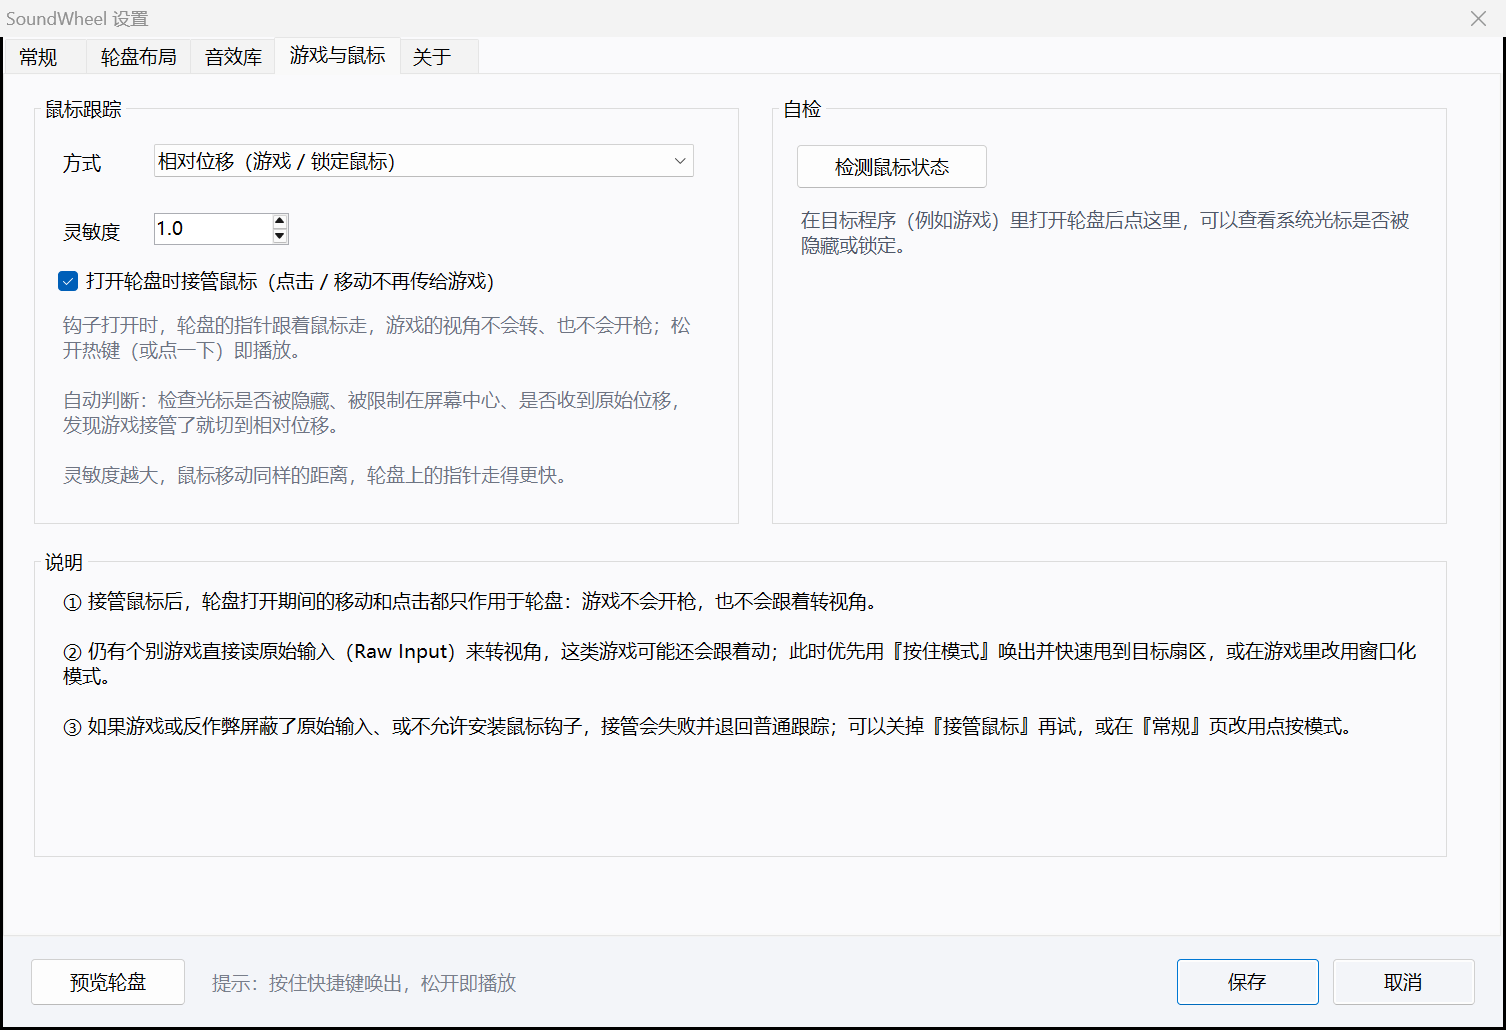
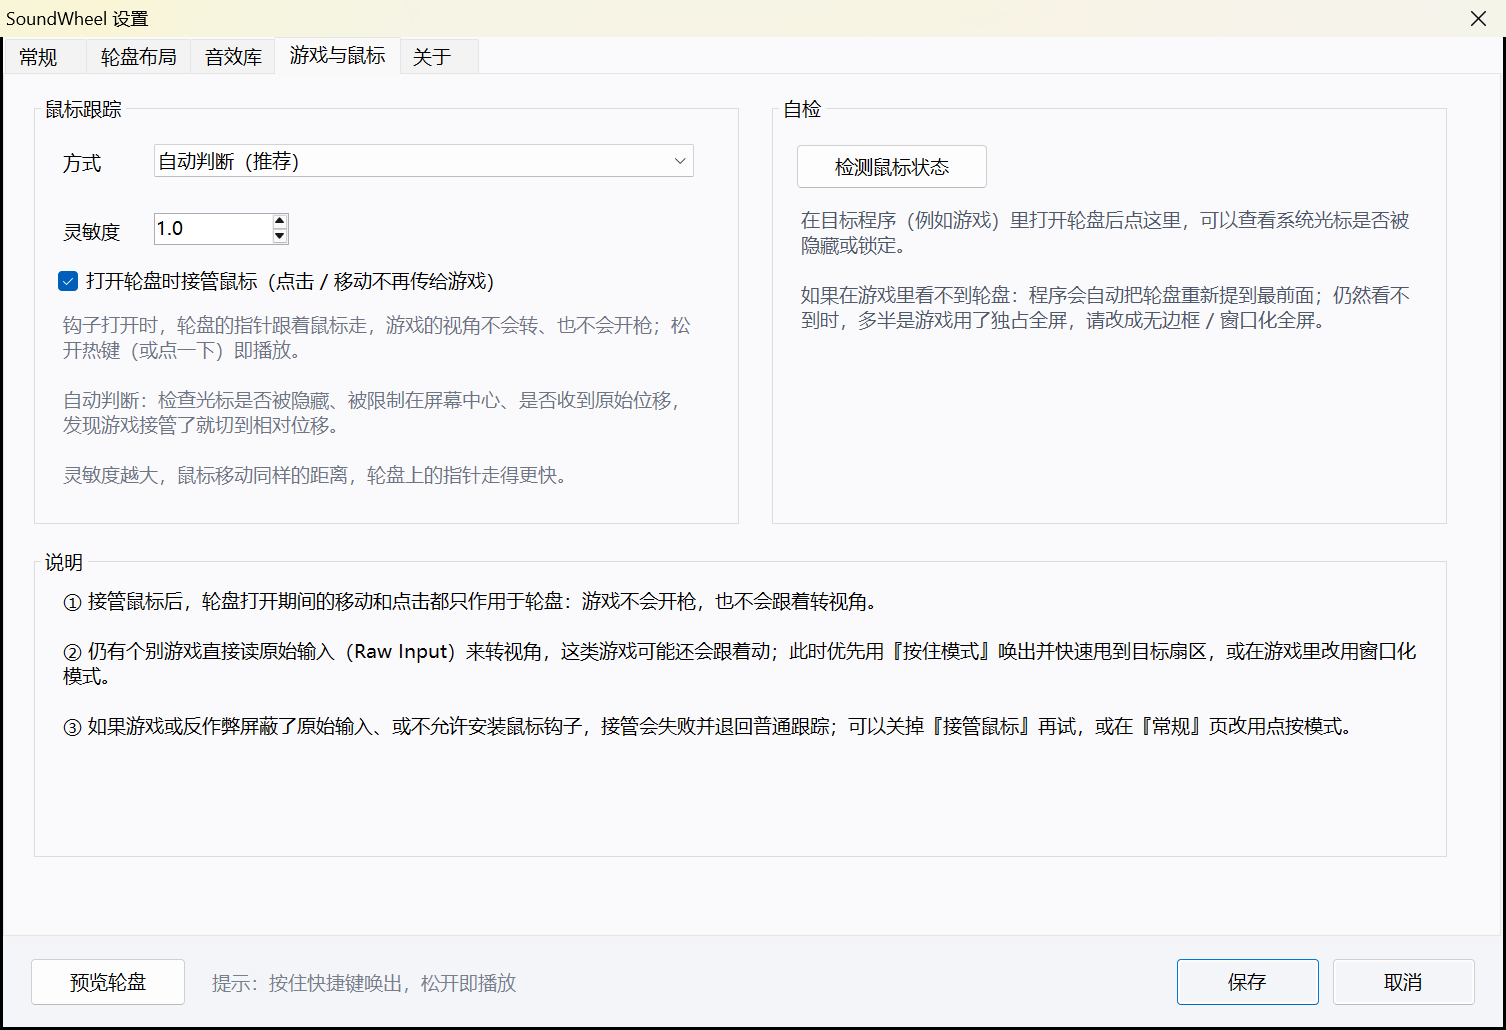
fix: 1.2.2 - keep the wheel above borderless fullscreen games

Changed region(s): [[0.5305, 0.2796, 0.9363, 0.3417], [0.0936, 0.1243, 0.2497, 0.1864], [0.0, 0.0, 0.1248, 0.0621]]

diff --git a/src/Native.cs b/src/Native.cs
@@ -30,6 +30,16 @@ namespace SoundWheel
         public const int ULW_ALPHA = 0x00000002;
         public const byte AC_SRC_ALPHA = 1;
 
+        // SetWindowPos：把窗口重新顶到 topmost 组最前面且不激活，用于盖住无边框全屏游戏
+        public static readonly IntPtr HWND_TOPMOST = new IntPtr(-1);
+        public const uint SWP_NOSIZE = 0x0001;
+        public const uint SWP_NOMOVE = 0x0002;
+        public const uint SWP_NOACTIVATE = 0x0010;
+        public const uint SWP_SHOWWINDOW = 0x0040;
+        public const uint SWP_NOOWNERZORDER = 0x0200;
+        public const uint MONITOR_DEFAULTTONEAREST = 2;
+        public const uint GW_HWNDPREV = 3;
+
         public const uint MOD_ALT = 0x0001;
         public const uint MOD_CONTROL = 0x0002;
         public const uint MOD_SHIFT = 0x0004;
@@ -61,6 +71,15 @@ namespace SoundWheel
             public int Bottom;
             public int Width { get { return Right - Left; } }
             public int Height { get { return Bottom - Top; } }
+        }
+
+        [StructLayout(LayoutKind.Sequential)]
+        public struct MONITORINFO
+        {
+            public int cbSize;
+            public RECT rcMonitor;
+            public RECT rcWork;
+            public uint dwFlags;
         }
 
         [StructLayout(LayoutKind.Sequential, Pack = 1)]
@@ -138,6 +157,30 @@ namespace SoundWheel
 
         [DllImport("user32.dll")]
         public static extern bool ShowWindow(IntPtr hWnd, int nCmdShow);
+
+        [DllImport("user32.dll", SetLastError = true)]
+        public static extern bool SetWindowPos(IntPtr hWnd, IntPtr hWndInsertAfter, int X, int Y, int cx, int cy, uint uFlags);
+
+        [DllImport("user32.dll")]
+        public static extern bool GetWindowRect(IntPtr hWnd, out RECT lpRect);
+
+        [DllImport("user32.dll", CharSet = CharSet.Unicode)]
+        public static extern int GetClassName(IntPtr hWnd, System.Text.StringBuilder lpClassName, int nMaxCount);
+
+        [DllImport("user32.dll")]
+        public static extern IntPtr MonitorFromWindow(IntPtr hwnd, uint dwFlags);
+
+        [DllImport("user32.dll")]
+        public static extern bool GetMonitorInfo(IntPtr hMonitor, ref MONITORINFO lpmi);
+
+        [DllImport("user32.dll")]
+        public static extern IntPtr GetWindow(IntPtr hWnd, uint uCmd);
+
+        [DllImport("user32.dll")]
+        public static extern bool IsWindowVisible(IntPtr hWnd);
+
+        [DllImport("user32.dll")]
+        public static extern uint GetWindowThreadProcessId(IntPtr hWnd, out uint lpdwProcessId);
 
         [DllImport("user32.dll")]
         public static extern IntPtr MonitorFromPoint(POINT pt, uint dwFlags);
@@ -239,6 +282,76 @@ namespace SoundWheel
             }
             catch (Exception) { }
             return 1f;
+        }
+
+        // 重新置顶但不抢焦点：无边框全屏游戏通常把自己设成 topmost，它被激活后就会盖到我们上面，
+        // 所以轮盘打开期间要周期性调用一次，保证始终压在游戏画面之上
+        public static void TopMostNoActivate(IntPtr hwnd)
+        {
+            try
+            {
+                SetWindowPos(hwnd, HWND_TOPMOST, 0, 0, 0, 0,
+                    SWP_NOMOVE | SWP_NOSIZE | SWP_NOACTIVATE | SWP_NOOWNERZORDER | SWP_SHOWWINDOW);
+            }
+            catch (Exception) { }
+        }
+
+        // 轮盘是不是被压在别的窗口下面了（只看 topmost 组里排在我们前面的几个窗口）
+        public static bool WindowCoveredAt(IntPtr hwnd, Point pt)
+        {
+            try
+            {
+                uint myPid = (uint)System.Diagnostics.Process.GetCurrentProcess().Id;
+                IntPtr cur = GetWindow(hwnd, GW_HWNDPREV);
+                for (int i = 0; i < 6 && cur != IntPtr.Zero; i++)
+                {
+                    if (IsWindowVisible(cur))
+                    {
+                        uint pid;
+                        GetWindowThreadProcessId(cur, out pid);
+                        if (pid != myPid)
+                        {
+                            RECT r;
+                            if (GetWindowRect(cur, out r) && r.Width > 0 && r.Height > 0
+                                && pt.X >= r.Left && pt.X < r.Right && pt.Y >= r.Top && pt.Y < r.Bottom)
+                                return true;
+                        }
+                    }
+                    cur = GetWindow(cur, GW_HWNDPREV);
+                }
+            }
+            catch (Exception) { }
+            return false;
+        }
+
+        // 前台窗口是不是把整个显示器都盖住了（全屏 / 无边框全屏），只用于日志与提示
+        public static bool ForegroundFullscreen(out string info)
+        {
+            info = "";
+            try
+            {
+                IntPtr fg = GetForegroundWindow();
+                if (fg == IntPtr.Zero) return false;
+                RECT wr;
+                if (!GetWindowRect(fg, out wr)) return false;
+                IntPtr mon = MonitorFromWindow(fg, MONITOR_DEFAULTTONEAREST);
+                if (mon == IntPtr.Zero) return false;
+                MONITORINFO mi = new MONITORINFO();
+                mi.cbSize = Marshal.SizeOf(typeof(MONITORINFO));
+                if (!GetMonitorInfo(mon, ref mi)) return false;
+                bool covers = wr.Left <= mi.rcMonitor.Left + 1 && wr.Top <= mi.rcMonitor.Top + 1
+                    && wr.Right >= mi.rcMonitor.Right - 1 && wr.Bottom >= mi.rcMonitor.Bottom - 1;
+                System.Text.StringBuilder sb = new System.Text.StringBuilder(256);
+                GetClassName(fg, sb, sb.Capacity);
+                info = "fg=" + fg + " class=" + sb.ToString()
+                    + " rect=" + wr.Left + "," + wr.Top + " " + wr.Width + "x" + wr.Height
+                    + " monitor=" + mi.rcMonitor.Width + "x" + mi.rcMonitor.Height;
+                return covers;
+            }
+            catch (Exception)
+            {
+                return false;
+            }
         }
 
         public static void ShowNoActivate(IntPtr hwnd)

diff --git a/src/WheelWindow.cs b/src/WheelWindow.cs
@@ -77,6 +77,8 @@ namespace SoundWheel
         internal static bool KeyDebug;
         internal static bool MouseDebug;
         internal static bool FakeRaw;
+        // 轮盘打开期间每隔多少毫秒重新置顶一次（0 = 不重试）；无边框全屏游戏会抢 topmost
+        internal static int TopmostIntervalMs = 250;
         private bool _escDown;
         private bool _relative;
         private float _vx;
@@ -102,6 +104,9 @@ namespace SoundWheel
         private double _frameMax;
         private bool _rendering;
         private DateTime _lastRenderAt = DateTime.MinValue;
+        private DateTime _lastTopmost = DateTime.MinValue;
+        private int _coveredTicks;
+        private bool _coveredWarned;
         private Bitmap _bgCache;
         private Bitmap _labelCache;
         private Bitmap _composed;
@@ -209,6 +214,13 @@ namespace SoundWheel
                 anchor.X, anchor.Y, _bounds.X, _bounds.Y, _bounds.Width, dpiScale, _config.InnerCount, _config.OuterCount));
 
             Native.ShowNoActivate(Handle);
+            Native.TopMostNoActivate(Handle);
+            _lastTopmost = DateTime.UtcNow;
+            _coveredTicks = 0;
+            _coveredWarned = false;
+            string fgInfo;
+            bool fgFull = Native.ForegroundFullscreen(out fgInfo);
+            Log.Info("轮盘已置顶 前台全屏=" + fgFull + " " + fgInfo);
             if (_rawWindow == null)
             {
                 _rawWindow = new RawMouseWindow();
@@ -308,6 +320,38 @@ namespace SoundWheel
 
             if (!_closing)
             {
+                // 游戏（尤其 Java 版我的世界这类 GLFW 无边框全屏）会把自己保持在 topmost，
+                // 这里周期性把轮盘重新顶上去，避免窗口在但看不见
+                if (TopmostIntervalMs > 0)
+                {
+                    double sinceTop = (now - _lastTopmost).TotalMilliseconds;
+                    if (sinceTop >= TopmostIntervalMs)
+                    {
+                        _lastTopmost = now;
+                        Native.TopMostNoActivate(Handle);
+                    }
+                    else if (sinceTop >= 40)
+                    {
+                        // 被别的窗口盖住了就马上补一次置顶，不用等下一个周期
+                        Point center = new Point(_bounds.X + _bounds.Width / 2, _bounds.Y + _bounds.Height / 2);
+                        if (Native.WindowCoveredAt(Handle, center))
+                        {
+                            _lastTopmost = now;
+                            Native.TopMostNoActivate(Handle);
+                            _coveredTicks++;
+                            if (_coveredTicks == 30 && !_coveredWarned)
+                            {
+                                _coveredWarned = true;
+                                Log.Info("警告：轮盘持续被前台全屏窗口遮挡（游戏可能使用独占全屏，或不允许其他窗口置顶）；建议把游戏改成无边框窗口模式");
+                            }
+                        }
+                        else
+                        {
+                            _coveredTicks = 0;
+                        }
+                    }
+                }
+
                 PollMouse(now);
                 if (FakeRaw && _relative && (now - _openedAt).TotalMilliseconds < 5000) OnRawMouse(5, -7);
                 if (_capturing && _relative) SyncCapturedCursor();

diff --git a/src/SettingsForm.cs b/src/SettingsForm.cs
@@ -563,7 +563,10 @@ namespace SoundWheel
             _mouseProbe.Location = new Point(16, 74);
             _mouseProbe.Size = new Size(418, 196);
             _mouseProbe.ForeColor = Color.FromArgb(80, 88, 104);
-            _mouseProbe.Text = "在目标程序（例如游戏）里打开轮盘后点这里，可以查看系统光标是否被隐藏或锁定。";
+            _mouseProbe.Text = "在目标程序（例如游戏）里打开轮盘后点这里，可以查看系统光标是否被隐藏或锁定。" + Environment.NewLine +
+                Environment.NewLine +
+                "如果在游戏里看不到轮盘：程序会自动把轮盘重新提到最前面；仍然看不到时，" +
+                "多半是游戏用了独占全屏，请改成无边框 / 窗口化全屏。";
 
             probeBox.Controls.Add(probe);
             probeBox.Controls.Add(_mouseProbe);
@@ -598,7 +601,10 @@ namespace SoundWheel
                 + Environment.NewLine
                 + "锁定状态：" + (clipped ? "已锁定到屏幕中心（建议用相对位移）" : "未锁定")
                 + Environment.NewLine
-                + "数据目录：" + AppPaths.DataDir;
+                + "数据目录：" + AppPaths.DataDir
+                + Environment.NewLine
+                + "轮盘置顶：每 " + WheelWindow.TopmostIntervalMs + " ms 重新置顶一次" +
+                (WheelWindow.TopmostIntervalMs == 0 ? "（已关闭）" : "");
         }
 
         private void BuildAbout(TabPage page)
@@ -606,7 +612,7 @@ namespace SoundWheel
             Label about = new Label();
             about.Location = new Point(24, 24);
             about.Size = new Size(920, 500);
-            about.Text = "SoundWheel 1.2.1" + Environment.NewLine + Environment.NewLine +
+            about.Text = "SoundWheel 1.2.2" + Environment.NewLine + Environment.NewLine +
                 "Soundpad 音效轮盘：按住热键在鼠标位置弹出轮盘，移动鼠标选择音效，松开即播放。" +
                 Environment.NewLine + Environment.NewLine +
                 "本程序通过 Soundpad 官方远程控制接口（命名管道）工作，不修改 Soundpad 安装文件。" +

diff --git a/src/Toast.cs b/src/Toast.cs
@@ -14,6 +14,7 @@ namespace SoundWheel
         private float _opacity;
         private int _phase;
         private DateTime _phaseAt;
+        private DateTime _lastTop = DateTime.MinValue;
 
         private Toast(string text, Color accent)
         {
@@ -81,6 +82,8 @@ namespace SoundWheel
                 t.Location = new Point(x, y);
                 _current = t;
                 t.Show();
+                Native.TopMostNoActivate(t.Handle);
+                t._lastTop = DateTime.UtcNow;
                 t._phase = 1;
                 t._phaseAt = DateTime.UtcNow;
                 t._timer.Start();
@@ -93,6 +96,12 @@ namespace SoundWheel
 
         private void OnTick(object sender, EventArgs e)
         {
+            // 无边框全屏游戏会抢 topmost，提示窗也要周期性顶上去
+            if ((DateTime.UtcNow - _lastTop).TotalMilliseconds >= 150)
+            {
+                _lastTop = DateTime.UtcNow;
+                Native.TopMostNoActivate(Handle);
+            }
             double elapsed = (DateTime.UtcNow - _phaseAt).TotalMilliseconds;
             if (_phase == 1)
             {

diff --git a/src/Program.cs b/src/Program.cs
@@ -32,6 +32,10 @@ namespace SoundWheel
             WheelWindow.KeyDebug = debugKeys || Environment.GetEnvironmentVariable("SOUNDWHEEL_DEBUG_KEYS") == "1";
             WheelWindow.MouseDebug = debugMouse || Environment.GetEnvironmentVariable("SOUNDWHEEL_DEBUG_MOUSE") == "1";
             WheelWindow.FakeRaw = Environment.GetEnvironmentVariable("SOUNDWHEEL_FAKE_RAW") == "1";
+            int topmostMs;
+            if (!int.TryParse(Environment.GetEnvironmentVariable("SOUNDWHEEL_TOPMOST_MS"), out topmostMs)) topmostMs = 250;
+            if (topmostMs < 0) topmostMs = 0;
+            WheelWindow.TopmostIntervalMs = topmostMs;
 
             Log.FilePath = AppPaths.LogFile;
             Log.Info("启动 " + string.Join(" ", args));

diff --git a/src/AssemblyInfo.cs b/src/AssemblyInfo.cs
@@ -6,5 +6,5 @@ using System.Runtime.InteropServices;
 [assembly: AssemblyProduct("SoundWheel")]
 [assembly: AssemblyCopyright("MIT License · SoundWheel contributors · AI-generated (see AI-DISCLOSURE.md)")]
 [assembly: ComVisible(false)]
-[assembly: AssemblyVersion("1.2.1.0")]
-[assembly: AssemblyFileVersion("1.2.1.0")]
+[assembly: AssemblyVersion("1.2.2.0")]
+[assembly: AssemblyFileVersion("1.2.2.0")]

diff --git a/README.en.md b/README.en.md
@@ -95,8 +95,12 @@ Trade-offs:
    game windowed/borderless or at the same privilege level.
 2. A few games read raw input directly; the hook cannot stop those from turning a little — prefer the **hold mode**
    (hold hotkey → flick to the sector → release).
-3. Under **exclusive fullscreen** Windows does not allow any ordinary window on top of the game, so the wheel is invisible.
-   Use **windowed** or **borderless fullscreen** — the same prerequisite as every overlay tool (Discord, Steam, OBS).
+3. **Windowed / borderless fullscreen** games push themselves above other windows. Since 1.2.2 the wheel re-asserts
+   itself to the top of the topmost band when it opens and periodically while it is up (every 250 ms by default), plus
+   immediately whenever something covers it, so borderless fullscreen games work reliably.
+4. **Exclusive fullscreen** is a different story: Windows does not allow any ordinary window on top of the game, so the
+   wheel is still invisible. Use **windowed** or **borderless fullscreen** — the same prerequisite as every overlay tool
+   (Discord, Steam, OBS). The log then shows "轮盘持续被前台全屏窗口遮挡".
 
 ---
 
@@ -156,6 +160,9 @@ SoundWheel.exe [--data <dir>] [--preview [seconds]] [--settings] [--debug-keys] 
 | `--debug-keys` | Log raw key states (diagnose hold/release problems) |
 | `--debug-mouse` | Log every raw mouse delta and tracking-mode switch (diagnose a frozen pointer in games) |
 
+Environment variable `SOUNDWHEEL_TOPMOST_MS`: interval for re-asserting the wheel on top (milliseconds, default `250`;
+`0` means "raise once when opening, no periodic retry").
+
 Only one instance may run at a time.
 
 ---
@@ -198,6 +205,10 @@ A ready-made example configuration is included in `examples\testdata`.
   click-to-play, so it never gets stuck.
 - **Nothing audible** — is Soundpad running? Refresh the sound list; check `soundwheel.log`;
   check the "send to microphone" option and Soundpad's own device settings.
+- **Wheel never appears in a game / is covered by the game** — since 1.2.2 the wheel is raised to the top when it
+  opens and re-raised periodically; check `soundwheel.log` for `轮盘已置顶 前台全屏=...` and
+  `轮盘持续被前台全屏窗口遮挡`. The latter means the game uses **exclusive fullscreen**: switch it to windowed or
+  borderless fullscreen. Tune the retry rate with `SOUNDWHEEL_TOPMOST_MS` (`0` disables the periodic retry).
 - **Wrong sound plays** — the order changed inside Soundpad; refresh the list (matching is title-first).
 - **Wheel opens in a game but the pointer will not move** — Settings → **Game & mouse** → **检测鼠标状态** to see
   whether the cursor is hidden or clipped; switch tracking to **Relative**; try windowed/borderless mode; run with
@@ -213,7 +224,9 @@ A ready-made example configuration is included in `examples\testdata`.
 - Max 12 inner + 16 outer slots, one configuration at a time
 - Mouse capture relies on `WH_MOUSE_LL`; a higher-integrity foreground app (elevated game) means the hook gets no
   events and the app degrades to following the real cursor
-- A few games read raw input directly and still turn; under exclusive fullscreen the wheel cannot be shown at all
+- A few games read raw input directly and still turn
+- Under exclusive fullscreen the wheel cannot be shown at all; use windowed / borderless fullscreen (the wheel does
+  re-assert itself on top, which covers borderless fullscreen games)
 - The pointer is derived from hook events / cursor position, so a badly stuttering game may lag it by a frame or two
 - Playback/stop only — it never edits audio or Soundpad's own data
 - UI is Chinese-only; tested on Windows 11 at 150 % DPI

diff --git a/AI-DISCLOSURE.md b/AI-DISCLOSURE.md
@@ -58,6 +58,13 @@
   - 用 Z 序枚举确认轮盘窗口（TOPMOST）位于游戏窗口之上
 - 未验证：真实游戏内的接管手感（测试机无法稳定注入鼠标事件）、与各反作弊/独占全屏游戏的兼容性
 
+## v1.2.2 增补（无边框全屏游戏看得见轮盘）
+
+- 问题：无边框全屏游戏（典型是 Java 版《我的世界》）会把自身设为置顶，轮盘虽然带 `WS_EX_TOPMOST`，但句柄创建更早、打开时又不重新置顶，于是被压在游戏下面（"打开了但看不见"）
+- 改动：`src/Native.cs` 新增 `TopMostNoActivate`（`SetWindowPos(HWND_TOPMOST, SWP_NOACTIVATE|SWP_NOMOVE|SWP_NOSIZE)`）、`WindowCoveredAt`（沿 `GW_HWNDPREV` 检查上层窗口是否盖住轮盘中心）、`ForegroundFullscreen`；`src/WheelWindow.cs` 打开时置顶一次、每 250ms 重新置顶、被遮挡时立即补一次，连续约 3 秒被遮挡写一条告警；`src/Toast.cs` 同样周期性置顶；`src/Program.cs` 支持 `SOUNDWHEEL_TOPMOST_MS`
+- 验证：`tools/FakeGame.cs`（编译为 `dist/SimGame.exe`）模拟"无边框全屏 + 每 1200ms 抢回置顶"的游戏窗口，用屏幕像素对照：关闭重试时轮盘中心 = 游戏绿色（被盖住，复现缺陷），开启重试时轮盘中心 = 轮盘深色、轮盘外 = 游戏绿色（可见，修复生效）；截图 `testdataT/B1_crop.png` 目视确认
+- 未验证：真实 Java 版 MC / GLFW 全屏下的表现、与其它全屏游戏的实际叠加兼容性
+
 ## 验证情况（截至 v1.0.0）
 
 已在 Windows 11 + 150% DPI 的实机上验证：

diff --git a/CHANGELOG.md b/CHANGELOG.md
@@ -2,6 +2,21 @@
 
 本项目遵循 [Keep a Changelog](https://keepachangelog.com/zh-CN/1.1.0/) 与 [语义化版本](https://semver.org/lang/zh-CN/)。
 
+## [1.2.2] - 2026-11-08
+
+修"无边框全屏 / 全屏游戏里看不见轮盘"（典型场景：Java 版《我的世界》）。
+
+### 修复
+
+- **轮盘被无边框全屏游戏盖住**：窗口虽然带 `WS_EX_TOPMOST`，但打开后从不重新置顶；而全屏游戏（GLFW / Unity 等）会主动把自己设为置顶，于是句柄更早创建的轮盘被压到下面。现在打开时把轮盘顶到置顶层最前（不抢焦点），并在打开期间每 250ms 重新置顶一次，检测到被遮挡时立即补一次
+- **遮挡告警**：连续约 3 秒仍被前台窗口盖住时，日志写一条"轮盘持续被前台全屏窗口遮挡"，提示游戏可能是独占全屏（这种模式任何普通窗口都盖不上去，只能改窗口化 / 无边框）
+- **播放提示窗（Toast）**同样周期性置顶，避免在游戏里被压住
+
+### 新增
+
+- 环境变量 `SOUNDWHEEL_TOPMOST_MS`（默认 `250`，`0` 关闭周期性置顶）
+- 设置 → 游戏与鼠标 → 自检区新增说明与置顶状态显示
+
 ## [1.2.1] - 2026-11-07
 
 修手感：轮盘打开后指针跟手性差（"鼠标移动起来有些粘手"）。
